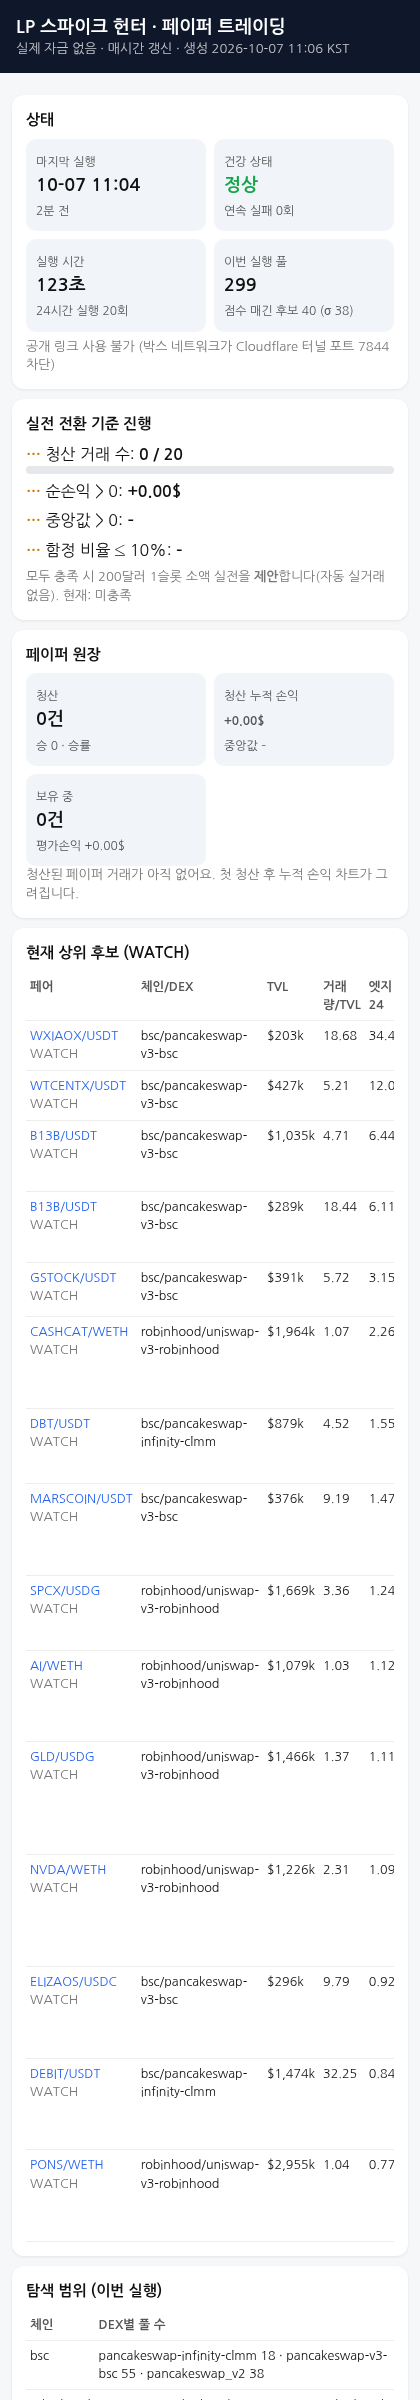
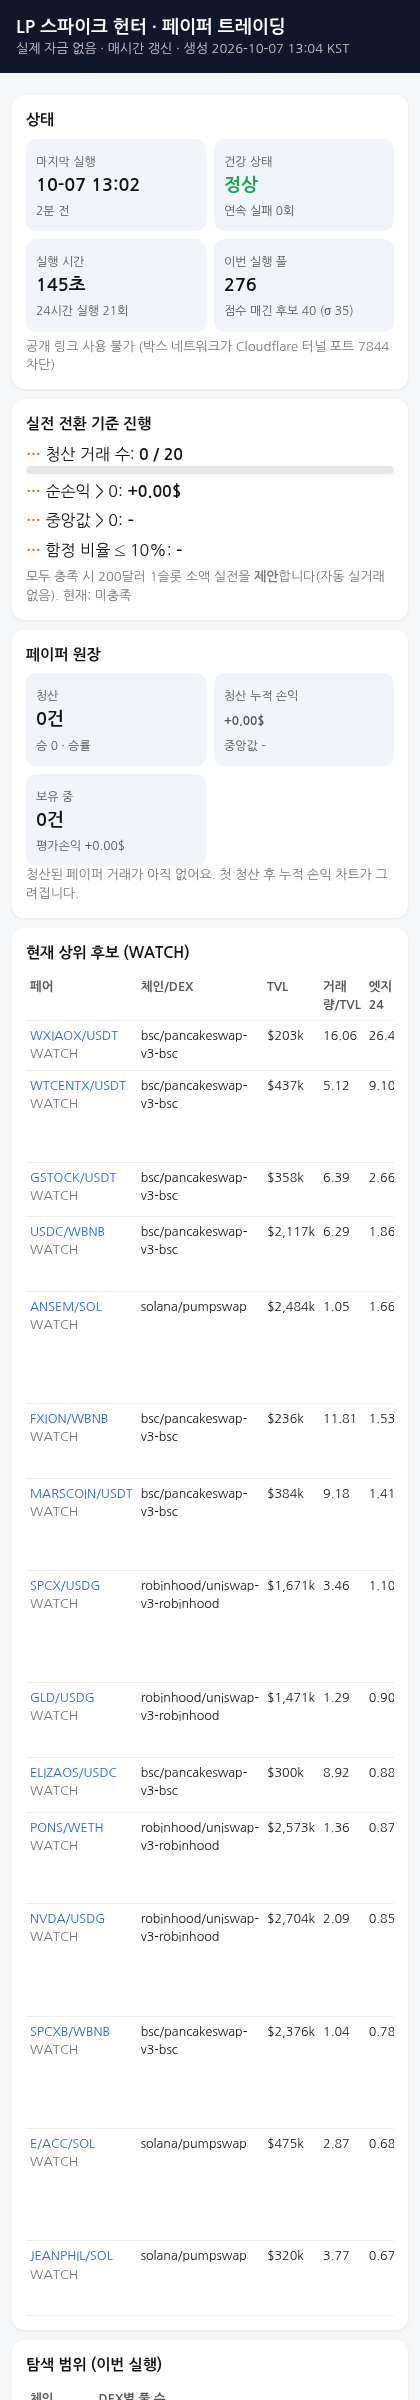
update 2026-10-07 13:04 KST

diff --git a/index.html b/index.html
@@ -12,12 +12,12 @@ th{color:#555;font-weight:600} .scroll{overflow-x:auto} .pos{color:#16a34a} .neg
 .bar{height:8px;background:#e5e7eb;border-radius:4px;overflow:hidden} .bar i{display:block;height:100%;background:#2563eb}
 .chart{width:100%;height:auto} a{color:#2563eb;text-decoration:none} .chg{color:#7c3aed;font-weight:600}
 </style></head><body>
-<header><h1>LP 스파이크 헌터 · 페이퍼 트레이딩</h1><div class="sub">실제 자금 없음 · 매시간 갱신 · 생성 2026-10-07 11:06 KST</div></header><main>
+<header><h1>LP 스파이크 헌터 · 페이퍼 트레이딩</h1><div class="sub">실제 자금 없음 · 매시간 갱신 · 생성 2026-10-07 13:04 KST</div></header><main>
 <div class="card"><h2>상태</h2><div class="grid">
-<div class="kpi"><span>마지막 실행</span><b>10-07 11:04</b><span>2분 전</span></div>
+<div class="kpi"><span>마지막 실행</span><b>10-07 13:02</b><span>2분 전</span></div>
 <div class="kpi"><span>건강 상태</span><b class="ok">정상</b><span>연속 실패 0회</span></div>
-<div class="kpi"><span>실행 시간</span><b>123초</b><span>24시간 실행 20회</span></div>
-<div class="kpi"><span>이번 실행 풀</span><b>299</b><span>점수 매긴 후보 40 (σ 38)</span></div>
+<div class="kpi"><span>실행 시간</span><b>145초</b><span>24시간 실행 21회</span></div>
+<div class="kpi"><span>이번 실행 풀</span><b>276</b><span>점수 매긴 후보 40 (σ 35)</span></div>
 </div><div class="muted" style="margin-top:6px">공개 링크 사용 불가 (박스 네트워크가 Cloudflare 터널 포트 7844 차단)</div></div>
 <div class="card"><h2>실전 전환 기준 진행</h2>
 <div style="margin:6px 0"><b class="warn">…</b> 청산 거래 수: <b>0 / 20</b><div class="bar"><i style="width:0%"></i></div></div>
@@ -32,26 +32,26 @@ th{color:#555;font-weight:600} .scroll{overflow-x:auto} .pos{color:#16a34a} .neg
 </div><div class="muted">청산된 페이퍼 거래가 아직 없어요. 첫 청산 후 누적 손익 차트가 그려집니다.</div>
 </div>
 <div class="card"><h2>현재 상위 후보 (WATCH)</h2><div class="scroll"><table><tr><th>페어</th><th>체인/DEX</th><th>TVL</th><th>거래량/TVL</th><th>엣지24</th><th>엣지6</th><th>진입 안 하는 이유</th></tr>
-<tr><td><a href='https://www.geckoterminal.com/bsc/pools/0x5406452defa8c8ec8e1c7eb709f803fdcb0807f4'>WXIAOX/USDT</a> <span class='muted'>WATCH</span></td><td>bsc/pancakeswap-v3-bsc</td><td>$203k</td><td>18.68</td><td>34.40</td><td>1.71</td><td><span class="tag">6h 엣지 부족 (edge6&lt;5)</span></td></tr>
-<tr><td><a href='https://www.geckoterminal.com/bsc/pools/0xfc0b6ce7ee23683ef34dea599525f8701ec604d8'>WTCENTX/USDT</a> <span class='muted'>WATCH</span></td><td>bsc/pancakeswap-v3-bsc</td><td>$427k</td><td>5.21</td><td>12.03</td><td>0.97</td><td><span class="tag">6h 엣지 부족 (edge6&lt;5)</span></td></tr>
-<tr><td><a href='https://www.geckoterminal.com/bsc/pools/0x32c51041f3d7a66ac14aba7485444efb6e15efe1'>B13B/USDT</a> <span class='muted'>WATCH</span></td><td>bsc/pancakeswap-v3-bsc</td><td>$1,035k</td><td>4.71</td><td>6.44</td><td>0.88</td><td><span class="tag">6h 엣지 부족 (edge6&lt;5)</span><span class="tag">보안 플래그 (security:security_unchecked)</span></td></tr>
-<tr><td><a href='https://www.geckoterminal.com/bsc/pools/0xb754f10cebf50b8862444cf4d6c1cc31a3b71c18'>B13B/USDT</a> <span class='muted'>WATCH</span></td><td>bsc/pancakeswap-v3-bsc</td><td>$289k</td><td>18.44</td><td>6.11</td><td>2.84</td><td><span class="tag">6h 엣지 부족 (edge6&lt;5)</span><span class="tag">보안 플래그 (security:security_unchecked)</span></td></tr>
-<tr><td><a href='https://www.geckoterminal.com/bsc/pools/0x7a907a283ef913eb25bee3afd110f687a3fb7eed'>GSTOCK/USDT</a> <span class='muted'>WATCH</span></td><td>bsc/pancakeswap-v3-bsc</td><td>$391k</td><td>5.72</td><td>3.15</td><td>0.45</td><td><span class="tag">24h 엣지 부족 (edge24&lt;5)</span><span class="tag">6h 엣지 부족 (edge6&lt;5)</span></td></tr>
-<tr><td><a href='https://www.geckoterminal.com/robinhood/pools/0xd42a491087a15e5afd51feb3606066cc152d2b09'>CASHCAT/WETH</a> <span class='muted'>WATCH</span></td><td>robinhood/uniswap-v3-robinhood</td><td>$1,964k</td><td>1.07</td><td>2.26</td><td>3.43</td><td><span class="tag">24h 엣지 부족 (edge24&lt;5)</span><span class="tag">6h 엣지 부족 (edge6&lt;5)</span><span class="tag">보안 플래그 (security:security_unchecked)</span></td></tr>
-<tr><td><a href='https://www.geckoterminal.com/bsc/pools/0xba2eab70102e8e1ca982dce825328cadf1cd33ca4e0d1bb4e7408fe9bcdecec4'>DBT/USDT</a> <span class='muted'>WATCH</span></td><td>bsc/pancakeswap-infinity-clmm</td><td>$879k</td><td>4.52</td><td>1.55</td><td>0.90</td><td><span class="tag">24h 엣지 부족 (edge24&lt;5)</span><span class="tag">6h 엣지 부족 (edge6&lt;5)</span><span class="tag">수수료&lt;비용 (fee24&lt;2x_cost)</span></td></tr>
-<tr><td><a href='https://www.geckoterminal.com/bsc/pools/0x14ca9d552ed2cf0d5dfd1f89bc6793a464e2ed16'>MARSCOIN/USDT</a> <span class='muted'>WATCH</span></td><td>bsc/pancakeswap-v3-bsc</td><td>$376k</td><td>9.19</td><td>1.47</td><td>3.65</td><td><span class="tag">24h 엣지 부족 (edge24&lt;5)</span><span class="tag">6h 엣지 부족 (edge6&lt;5)</span><span class="tag">보안 플래그 (security:security_unchecked)</span></td></tr>
-<tr><td><a href='https://www.geckoterminal.com/robinhood/pools/0xc61284332117c3fb23a2a56cceffd07f7af60029'>SPCX/USDG</a> <span class='muted'>WATCH</span></td><td>robinhood/uniswap-v3-robinhood</td><td>$1,669k</td><td>3.36</td><td>1.24</td><td>1.55</td><td><span class="tag">24h 엣지 부족 (edge24&lt;5)</span><span class="tag">6h 엣지 부족 (edge6&lt;5)</span><span class="tag">수수료&lt;비용 (fee24&lt;2x_cost)</span></td></tr>
-<tr><td><a href='https://www.geckoterminal.com/robinhood/pools/0xc4a21f9d6485fc5893dd4a491b320a83daf4da1d'>AI/WETH</a> <span class='muted'>WATCH</span></td><td>robinhood/uniswap-v3-robinhood</td><td>$1,079k</td><td>1.03</td><td>1.12</td><td>1.54</td><td><span class="tag">24h 엣지 부족 (edge24&lt;5)</span><span class="tag">6h 엣지 부족 (edge6&lt;5)</span><span class="tag">보안 플래그 (security:security_unchecked)</span></td></tr>
-<tr><td><a href='https://www.geckoterminal.com/robinhood/pools/0xba2f1ed4ceb2169d538d1e614d847e83c5a55913'>GLD/USDG</a> <span class='muted'>WATCH</span></td><td>robinhood/uniswap-v3-robinhood</td><td>$1,466k</td><td>1.37</td><td>1.11</td><td>1.24</td><td><span class="tag">24h 엣지 부족 (edge24&lt;5)</span><span class="tag">6h 엣지 부족 (edge6&lt;5)</span><span class="tag">보안 플래그 (security:security_unchecked)</span><span class="tag">수수료&lt;비용 (fee24&lt;2x_cost)</span></td></tr>
-<tr><td><a href='https://www.geckoterminal.com/robinhood/pools/0x62ab521f71431f78ac374cdbadc6cda3c8916b6c'>NVDA/WETH</a> <span class='muted'>WATCH</span></td><td>robinhood/uniswap-v3-robinhood</td><td>$1,226k</td><td>2.31</td><td>1.09</td><td>1.17</td><td><span class="tag">24h 엣지 부족 (edge24&lt;5)</span><span class="tag">6h 엣지 부족 (edge6&lt;5)</span><span class="tag">보안 플래그 (security:security_unchecked)</span><span class="tag">수수료&lt;비용 (fee24&lt;2x_cost)</span></td></tr>
-<tr><td><a href='https://www.geckoterminal.com/bsc/pools/0x56adadf82e3346eb8317628df5ce1f776f89014d'>ELIZAOS/USDC</a> <span class='muted'>WATCH</span></td><td>bsc/pancakeswap-v3-bsc</td><td>$296k</td><td>9.79</td><td>0.92</td><td>0.45</td><td><span class="tag">24h 엣지 부족 (edge24&lt;5)</span><span class="tag">6h 엣지 부족 (edge6&lt;5)</span><span class="tag">보안 플래그 (security:security_unchecked)</span></td></tr>
-<tr><td><a href='https://www.geckoterminal.com/bsc/pools/0x36f0e68ef7a97744389b9b5c859566629ba7c3f3899f0cc630ca68d82b6f488f'>DEBIT/USDT</a> <span class='muted'>WATCH</span></td><td>bsc/pancakeswap-infinity-clmm</td><td>$1,474k</td><td>32.25</td><td>0.84</td><td>0.84</td><td><span class="tag">24h 엣지 부족 (edge24&lt;5)</span><span class="tag">6h 엣지 부족 (edge6&lt;5)</span><span class="tag">보안 플래그 (security:mintable)</span></td></tr>
-<tr><td><a href='https://www.geckoterminal.com/robinhood/pools/0xed50bdeea8adc232f159486192a4157281d722ff'>PONS/WETH</a> <span class='muted'>WATCH</span></td><td>robinhood/uniswap-v3-robinhood</td><td>$2,955k</td><td>1.04</td><td>0.77</td><td>0.31</td><td><span class="tag">24h 엣지 부족 (edge24&lt;5)</span><span class="tag">6h 엣지 부족 (edge6&lt;5)</span><span class="tag">보안 플래그 (security:security_unchecked)</span></td></tr>
+<tr><td><a href='https://www.geckoterminal.com/bsc/pools/0x5406452defa8c8ec8e1c7eb709f803fdcb0807f4'>WXIAOX/USDT</a> <span class='muted'>WATCH</span></td><td>bsc/pancakeswap-v3-bsc</td><td>$203k</td><td>16.06</td><td>26.40</td><td>1.74</td><td><span class="tag">6h 엣지 부족 (edge6&lt;5)</span></td></tr>
+<tr><td><a href='https://www.geckoterminal.com/bsc/pools/0xfc0b6ce7ee23683ef34dea599525f8701ec604d8'>WTCENTX/USDT</a> <span class='muted'>WATCH</span></td><td>bsc/pancakeswap-v3-bsc</td><td>$437k</td><td>5.12</td><td>9.10</td><td>1.24</td><td><span class="tag">6h 엣지 부족 (edge6&lt;5)</span><span class="tag">보안 플래그 (security:security_unchecked)</span><span class="tag">수수료&lt;비용 (fee24&lt;2x_cost)</span></td></tr>
+<tr><td><a href='https://www.geckoterminal.com/bsc/pools/0x7a907a283ef913eb25bee3afd110f687a3fb7eed'>GSTOCK/USDT</a> <span class='muted'>WATCH</span></td><td>bsc/pancakeswap-v3-bsc</td><td>$358k</td><td>6.39</td><td>2.66</td><td>1.17</td><td><span class="tag">24h 엣지 부족 (edge24&lt;5)</span><span class="tag">6h 엣지 부족 (edge6&lt;5)</span></td></tr>
+<tr><td><a href='https://www.geckoterminal.com/bsc/pools/0xf2688fb5b81049dfb7703ada5e770543770612c4'>USDC/WBNB</a> <span class='muted'>WATCH</span></td><td>bsc/pancakeswap-v3-bsc</td><td>$2,117k</td><td>6.29</td><td>1.86</td><td>1.71</td><td><span class="tag">24h 엣지 부족 (edge24&lt;5)</span><span class="tag">6h 엣지 부족 (edge6&lt;5)</span><span class="tag">수수료&lt;비용 (fee24&lt;2x_cost)</span></td></tr>
+<tr><td><a href='https://www.geckoterminal.com/solana/pools/FnzKY6x7entQ1eR3D225dQyT7ybfka4PskBMQhb8L3CC'>ANSEM/SOL</a> <span class='muted'>WATCH</span></td><td>solana/pumpswap</td><td>$2,484k</td><td>1.05</td><td>1.66</td><td>2.42</td><td><span class="tag">24h 엣지 부족 (edge24&lt;5)</span><span class="tag">6h 엣지 부족 (edge6&lt;5)</span><span class="tag">보안 플래그 (security:top10_holders=65%)</span><span class="tag">수수료&lt;비용 (fee24&lt;2x_cost)</span></td></tr>
+<tr><td><a href='https://www.geckoterminal.com/bsc/pools/0x02eda8dbc97a0c9adfbbfab589430d76a7c7f5b6'>FXION/WBNB</a> <span class='muted'>WATCH</span></td><td>bsc/pancakeswap-v3-bsc</td><td>$236k</td><td>11.81</td><td>1.53</td><td>1.59</td><td><span class="tag">24h 엣지 부족 (edge24&lt;5)</span><span class="tag">6h 엣지 부족 (edge6&lt;5)</span><span class="tag">수수료&lt;비용 (fee24&lt;2x_cost)</span></td></tr>
+<tr><td><a href='https://www.geckoterminal.com/bsc/pools/0x14ca9d552ed2cf0d5dfd1f89bc6793a464e2ed16'>MARSCOIN/USDT</a> <span class='muted'>WATCH</span></td><td>bsc/pancakeswap-v3-bsc</td><td>$384k</td><td>9.18</td><td>1.41</td><td>0.76</td><td><span class="tag">24h 엣지 부족 (edge24&lt;5)</span><span class="tag">6h 엣지 부족 (edge6&lt;5)</span><span class="tag">보안 플래그 (security:security_unchecked)</span></td></tr>
+<tr><td><a href='https://www.geckoterminal.com/robinhood/pools/0xc61284332117c3fb23a2a56cceffd07f7af60029'>SPCX/USDG</a> <span class='muted'>WATCH</span></td><td>robinhood/uniswap-v3-robinhood</td><td>$1,671k</td><td>3.46</td><td>1.10</td><td>1.37</td><td><span class="tag">24h 엣지 부족 (edge24&lt;5)</span><span class="tag">6h 엣지 부족 (edge6&lt;5)</span><span class="tag">보안 플래그 (security:security_unchecked)</span><span class="tag">수수료&lt;비용 (fee24&lt;2x_cost)</span></td></tr>
+<tr><td><a href='https://www.geckoterminal.com/robinhood/pools/0xba2f1ed4ceb2169d538d1e614d847e83c5a55913'>GLD/USDG</a> <span class='muted'>WATCH</span></td><td>robinhood/uniswap-v3-robinhood</td><td>$1,471k</td><td>1.29</td><td>0.90</td><td>0.89</td><td><span class="tag">24h 엣지 부족 (edge24&lt;5)</span><span class="tag">6h 엣지 부족 (edge6&lt;5)</span><span class="tag">수수료&lt;비용 (fee24&lt;2x_cost)</span></td></tr>
+<tr><td><a href='https://www.geckoterminal.com/bsc/pools/0x56adadf82e3346eb8317628df5ce1f776f89014d'>ELIZAOS/USDC</a> <span class='muted'>WATCH</span></td><td>bsc/pancakeswap-v3-bsc</td><td>$300k</td><td>8.92</td><td>0.88</td><td>0.39</td><td><span class="tag">24h 엣지 부족 (edge24&lt;5)</span><span class="tag">6h 엣지 부족 (edge6&lt;5)</span></td></tr>
+<tr><td><a href='https://www.geckoterminal.com/robinhood/pools/0xed50bdeea8adc232f159486192a4157281d722ff'>PONS/WETH</a> <span class='muted'>WATCH</span></td><td>robinhood/uniswap-v3-robinhood</td><td>$2,573k</td><td>1.36</td><td>0.87</td><td>0.97</td><td><span class="tag">24h 엣지 부족 (edge24&lt;5)</span><span class="tag">6h 엣지 부족 (edge6&lt;5)</span><span class="tag">보안 플래그 (security:security_unchecked)</span></td></tr>
+<tr><td><a href='https://www.geckoterminal.com/robinhood/pools/0xd4eb21209c4d6093f80b5b84f5c45cc093ea14a3'>NVDA/USDG</a> <span class='muted'>WATCH</span></td><td>robinhood/uniswap-v3-robinhood</td><td>$2,704k</td><td>2.09</td><td>0.85</td><td>0.83</td><td><span class="tag">24h 엣지 부족 (edge24&lt;5)</span><span class="tag">6h 엣지 부족 (edge6&lt;5)</span><span class="tag">보안 플래그 (security:security_unchecked)</span><span class="tag">수수료&lt;비용 (fee24&lt;2x_cost)</span></td></tr>
+<tr><td><a href='https://www.geckoterminal.com/bsc/pools/0x66faad27cf481f82d0089ec8156b3aa3636010c7'>SPCXB/WBNB</a> <span class='muted'>WATCH</span></td><td>bsc/pancakeswap-v3-bsc</td><td>$2,376k</td><td>1.04</td><td>0.78</td><td>0.84</td><td><span class="tag">24h 엣지 부족 (edge24&lt;5)</span><span class="tag">6h 엣지 부족 (edge6&lt;5)</span><span class="tag">보안 플래그 (security:security_unchecked)</span><span class="tag">수수료&lt;비용 (fee24&lt;2x_cost)</span></td></tr>
+<tr><td><a href='https://www.geckoterminal.com/solana/pools/4JAnKFddd5fFTk5PxDj3PpTWJuTEfSWQEjZJcgKQ9KwW'>E/ACC/SOL</a> <span class='muted'>WATCH</span></td><td>solana/pumpswap</td><td>$475k</td><td>2.87</td><td>0.68</td><td>0.85</td><td><span class="tag">24h 엣지 부족 (edge24&lt;5)</span><span class="tag">6h 엣지 부족 (edge6&lt;5)</span><span class="tag">보안 플래그 (security:security_unchecked)</span><span class="tag">수수료&lt;비용 (fee24&lt;2x_cost)</span></td></tr>
+<tr><td><a href='https://www.geckoterminal.com/solana/pools/4R8CiMnJWDNoes3fQi1ccPFJygPXazaHaWpHrN3rZeNj'>JEANPHIL/SOL</a> <span class='muted'>WATCH</span></td><td>solana/pumpswap</td><td>$320k</td><td>3.77</td><td>0.67</td><td>0.45</td><td><span class="tag">24h 엣지 부족 (edge24&lt;5)</span><span class="tag">6h 엣지 부족 (edge6&lt;5)</span><span class="tag">수수료&lt;비용 (fee24&lt;2x_cost)</span></td></tr>
 </table></div></div>
 <div class="card"><h2>탐색 범위 (이번 실행)</h2><table><tr><th>체인</th><th>DEX별 풀 수</th></tr>
-<tr><td>bsc</td><td>pancakeswap-infinity-clmm 18 · pancakeswap-v3-bsc 55 · pancakeswap_v2 38</td></tr>
-<tr><td>robinhood</td><td>uniswap-v2-robinhood 5 · uniswap-v3-robinhood 30 · uniswap-v4-robinhood 53</td></tr>
-<tr><td>solana</td><td>pumpswap 100</td></tr>
+<tr><td>bsc</td><td>pancakeswap-infinity-clmm 9 · pancakeswap-v3-bsc 54 · pancakeswap_v2 37</td></tr>
+<tr><td>robinhood</td><td>uniswap-v2-robinhood 5 · uniswap-v3-robinhood 30 · uniswap-v4-robinhood 52</td></tr>
+<tr><td>solana</td><td>pumpswap 89</td></tr>
 </table></div>
 <div class="card"><h2>현재 규칙 (자동 튜닝 대상)</h2><table>
 <tr><td>진입 엣지 기준</td><td><b>5</b></td></tr>
@@ -63,6 +63,7 @@ th{color:#555;font-weight:600} .scroll{overflow-x:auto} .pos{color:#16a34a} .neg
 <tr><td>수수료/비용 배수</td><td><b>2</b></td></tr>
 <tr><td>급증 필터</td><td><b>0</b></td></tr>
 </table><h2 style="margin-top:12px">튜닝 기록 (최근)</h2>
+<div style="margin:6px 0;font-size:13px"><b class="muted">2026-10-07 13:04 KST</b> 유지 2026-10-07 13:04 KST: {&#x27;E&#x27;: 5, &#x27;W&#x27;: 0.15, &#x27;H&#x27;: 48, &#x27;X&#x27;: 1.0, &#x27;LL&#x27;: 0.3, &#x27;T&#x27;: 1.0, &#x27;FC&#x27;: 2} 유지. 이유: no improve (mean +7.11%→+7.06%, median +3.21%→+3.08%). 현재 OOS n=53 hit 81% mean +7.11% median +3.21% Σ $+753 / 후보 {&#x27;E&#x27;: 5, &#x27;W&#x27;: 0.15, &#x27;H&#x27;: 48, &#x27;X&#x27;: 0.5, &#x27;LL&#x27;: 0.3, &#x27;T&#x27;: 1.0, &#x27;FC&#x27;: 1} OOS n=53 hit 81% mean +7.06% median +3.08% Σ $+748. 페이퍼 청산 0건 Σ $+0.00. (3.7s)</div>
 <div style="margin:6px 0;font-size:13px"><b class="muted">2026-10-07 11:06 KST</b> 유지 2026-10-07 11:06 KST: {&#x27;E&#x27;: 5, &#x27;W&#x27;: 0.15, &#x27;H&#x27;: 48, &#x27;X&#x27;: 1.0, &#x27;LL&#x27;: 0.3, &#x27;T&#x27;: 1.0, &#x27;FC&#x27;: 2} 유지. 이유: no improve (mean +7.11%→+7.06%, median +3.21%→+3.08%). 현재 OOS n=53 hit 81% mean +7.11% median +3.21% Σ $+753 / 후보 {&#x27;E&#x27;: 5, &#x27;W&#x27;: 0.15, &#x27;H&#x27;: 48, &#x27;X&#x27;: 0.5, &#x27;LL&#x27;: 0.3, &#x27;T&#x27;: 1.0, &#x27;FC&#x27;: 1} OOS n=53 hit 81% mean +7.06% median +3.08% Σ $+748. 페이퍼 청산 0건 Σ $+0.00. (3.7s)</div>
 <div style="margin:6px 0;font-size:13px"><b class="muted">2026-10-07 10:03 KST</b> 유지 2026-10-07 10:03 KST: {&#x27;E&#x27;: 5, &#x27;W&#x27;: 0.15, &#x27;H&#x27;: 48, &#x27;X&#x27;: 1.0, &#x27;LL&#x27;: 0.3, &#x27;T&#x27;: 1.0, &#x27;FC&#x27;: 2} 유지. 이유: no improve (mean +7.11%→+7.06%, median +3.21%→+3.08%). 현재 OOS n=53 hit 81% mean +7.11% median +3.21% Σ $+753 / 후보 {&#x27;E&#x27;: 5, &#x27;W&#x27;: 0.15, &#x27;H&#x27;: 48, &#x27;X&#x27;: 0.5, &#x27;LL&#x27;: 0.3, &#x27;T&#x27;: 1.0, &#x27;FC&#x27;: 1} OOS n=53 hit 81% mean +7.06% median +3.08% Σ $+748. 페이퍼 청산 0건 Σ $+0.00. (3.6s)</div>
 <div style="margin:6px 0;font-size:13px"><b class="muted">2026-10-07 08:59 KST</b> 유지 2026-10-07 08:59 KST: {&#x27;E&#x27;: 5, &#x27;W&#x27;: 0.15, &#x27;H&#x27;: 48, &#x27;X&#x27;: 1.0, &#x27;LL&#x27;: 0.3, &#x27;T&#x27;: 1.0, &#x27;FC&#x27;: 2} 유지. 이유: no improve (mean +7.11%→+7.06%, median +3.21%→+3.08%). 현재 OOS n=53 hit 81% mean +7.11% median +3.21% Σ $+753 / 후보 {&#x27;E&#x27;: 5, &#x27;W&#x27;: 0.15, &#x27;H&#x27;: 48, &#x27;X&#x27;: 0.5, &#x27;LL&#x27;: 0.3, &#x27;T&#x27;: 1.0, &#x27;FC&#x27;: 1} OOS n=53 hit 81% mean +7.06% median +3.08% Σ $+748. 페이퍼 청산 0건 Σ $+0.00. (3.7s)</div>
